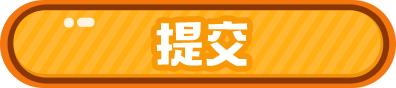
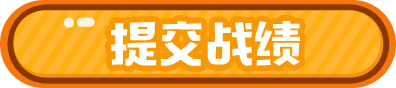
over

Changed region(s): [[0.2424, 0.1591, 0.7879, 0.8182], [0.4242, 0.7727, 0.4545, 0.8182]]

diff --git a/public/js/twolearnonedo/selectWord.js b/public/js/twolearnonedo/selectWord.js
@@ -28,6 +28,9 @@ function tapFn(_data,q,_this,aLi,obj){
             clearInterval(timerMAX);
             clearInterval(timerMid);
             clearInterval(timerMin);
+            if(q == 7){
+                obj.src = "images/twolearnonedo/seeResult.png";
+            }
             disable = 1;
             if(r == _data.answer){
                 aLi.css('color','#14c724');
@@ -50,6 +53,9 @@ function tapFn(_data,q,_this,aLi,obj){
             clearInterval(timerMAX);
             clearInterval(timerMid);
             clearInterval(timerMin);
+            if(q == 7){
+                obj.src = "images/twolearnonedo/seeResult.png";
+            }
             disable = 1;
             if(r == _data.answer){
                 aLi.css('color','#14c724');
@@ -74,9 +80,14 @@ $(function(){
     var answerThree = $('.answer3');
     var aLiTwo = answerTwo.find('li');
     var aLiThree = answerThree.find('li');
+    var nextImg = $('.imgBtn');
     var Qn = 0;
     var nextBtn = $('.nextBtn');
     var applyBtn = $('.apply');
+    var replyBtn = $('.shareImg');
+    replyBtn.on('tap',function(){
+        location.reload();
+    });
     aLiThree.on('tap',function(){
         Delete($(this));
     });

diff --git a/public/js/twolearnonedo/LoadQuestion.js b/public/js/twolearnonedo/LoadQuestion.js
@@ -39,7 +39,7 @@ function isSame(x,s){
     return 0;
 }
 $(function(){
-    var imgs = ["images/twolearnonedo/lead_back.png","images/twolearnonedo/begin-btn.png","images/twolearnonedo/nextBtn.png"];
+    var imgs = ["images/twolearnonedo/lead_back.png","images/twolearnonedo/begin-btn.png","images/twolearnonedo/nextBtn.png","images/twolearnonedo/replay.png","images/twolearnonedo/apply.png","images/twolearnonedo/seeResult.png"];
     // //虚拟测试
     // for(var i = 0,len = _data.length; i<len; i++){
     //     imgs.push(_data[i].pic);

diff --git a/app/views/twolearnonedo/index.blade.php b/app/views/twolearnonedo/index.blade.php
@@ -82,7 +82,7 @@
             <img src="images/twolearnonedo/apply.png" class="applyImg">
         </div>
         <div class="share">
-            <img src="images/twolearnonedo/share.png" class="shareImg">
+            <img src="images/twolearnonedo/replay.png" class="shareImg">
         </div>
         <p class="copyright">©红岩网校工作站</p>
     </div>
